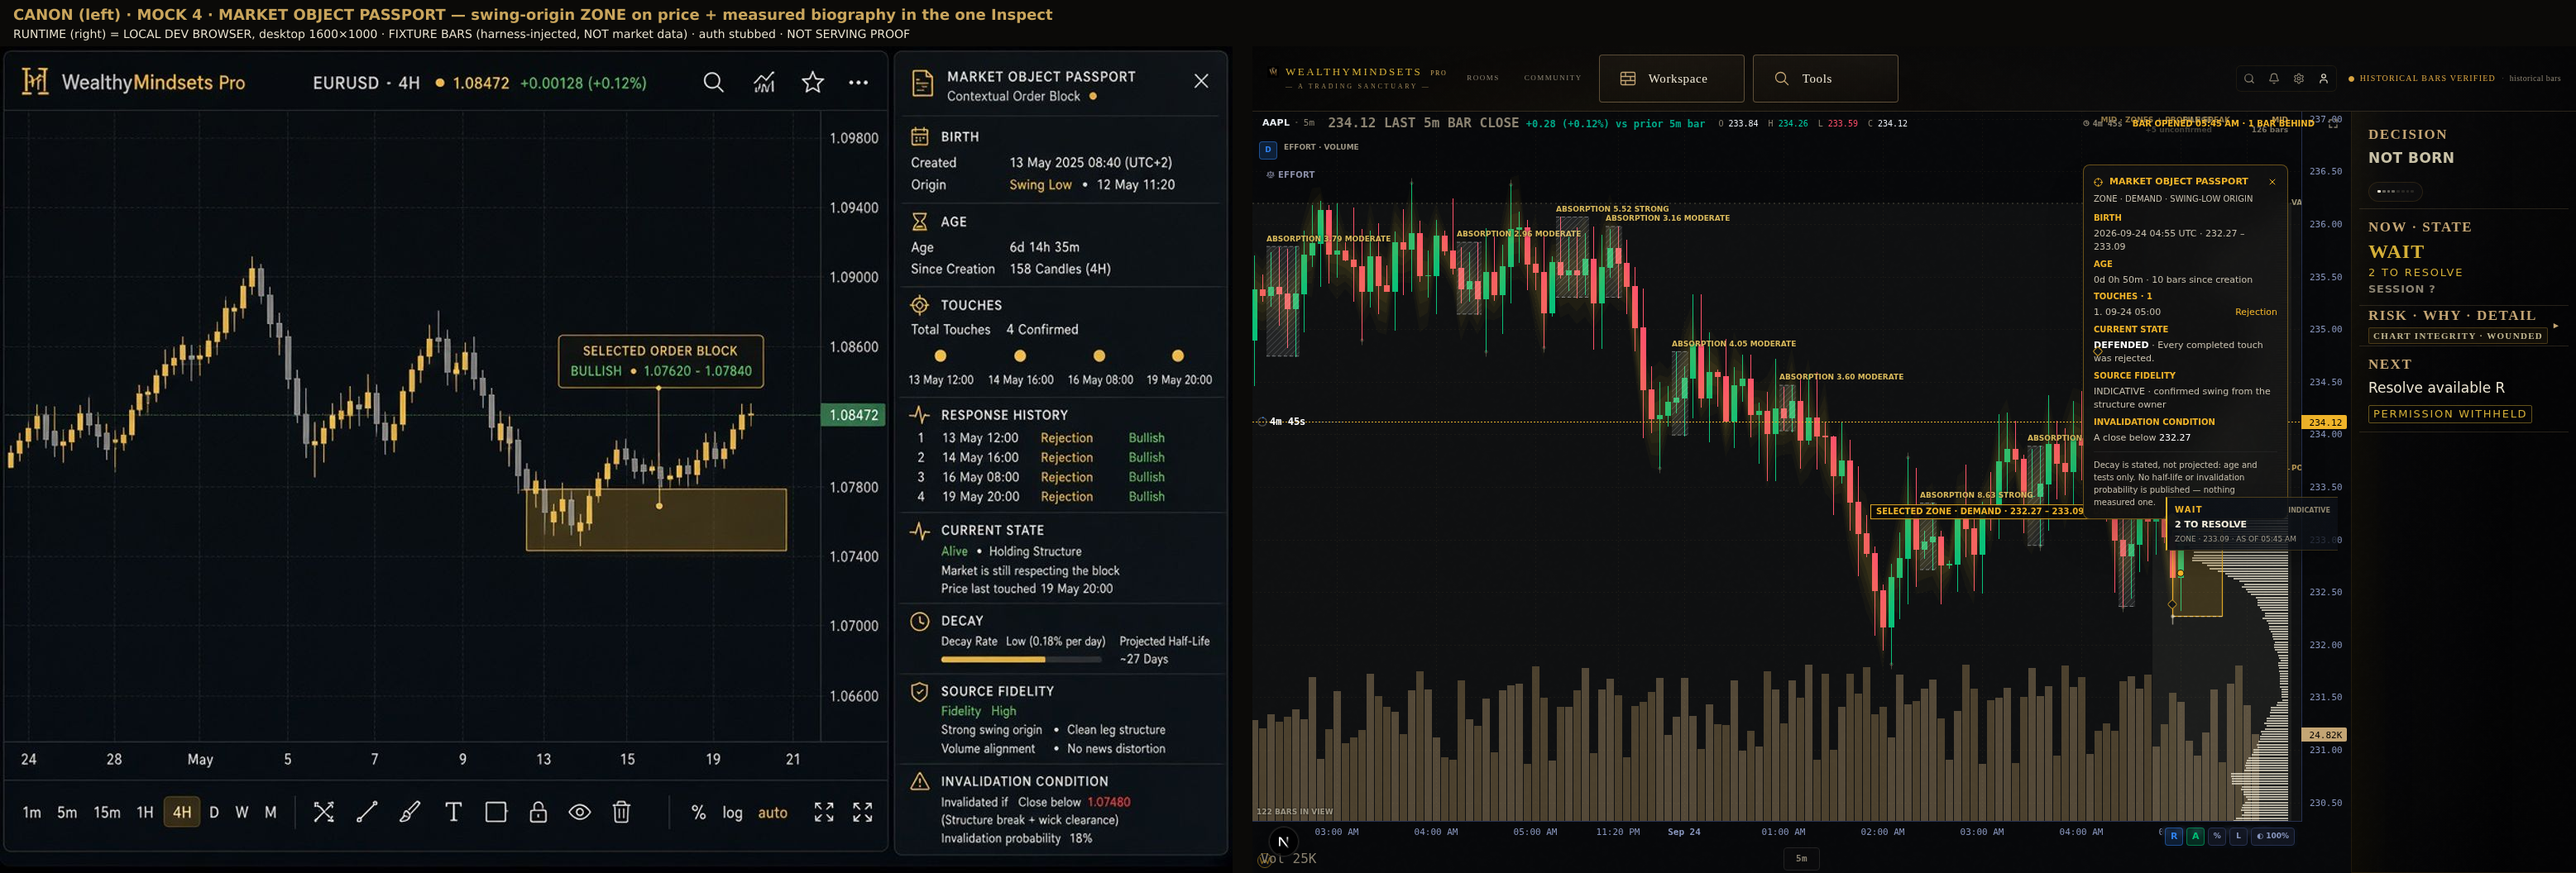
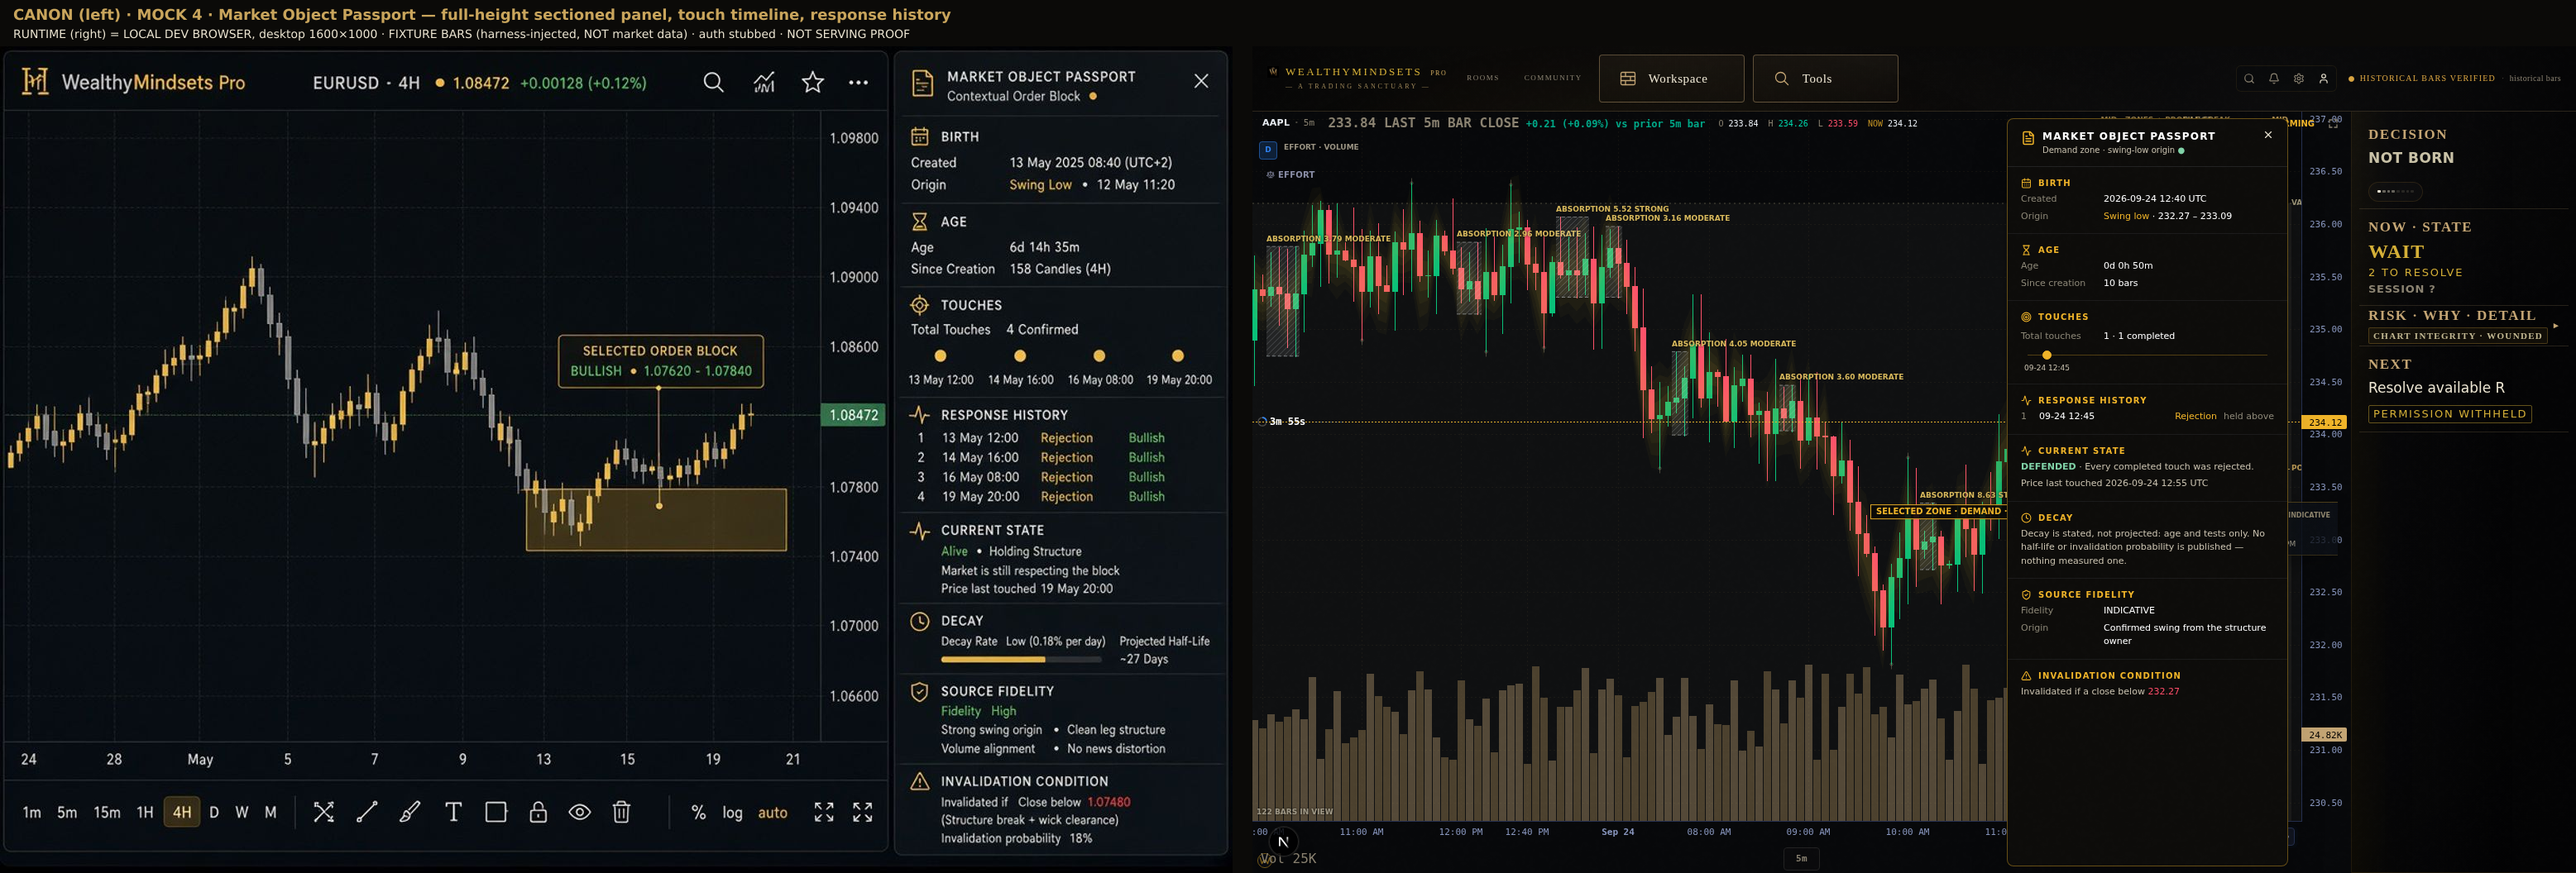
Market Object Passport as the plate's full-height panel: sections, touch timeline, response history (MOCK 4)
Opaque and above the chart's own chips. Same measured lifecycle facts; the
plate's decay rate, half-life and invalidation probability stay unbuilt.

Claude-Session: https://claude.ai/code/session_01Gntm2WzCaW5uQMS2aMojoZ

diff --git a/src/components/chart/ChartInspectTicket.tsx b/src/components/chart/ChartInspectTicket.tsx
@@ -51,7 +51,7 @@
 import React from "react";
 import type { SelectedBigTrade } from "@/lib/bigTradeLevels";
 import { describeAggressorMethod } from "@/lib/bubbleClaim";
-import { Crosshair, X } from "lucide-react";
+import { Activity, AlertTriangle, CalendarDays, Clock, Crosshair, FileText, Hourglass, ShieldCheck, Target, X } from "lucide-react";
 
 import type { InspectTicketVM, TicketRow } from "@/lib/marketData/viewModels/selectInspectTicket";
 import type { ProfileSliceResult } from "@/lib/marketData/viewModels/selectProfileSlice";
@@ -159,45 +159,102 @@ export function ChartInspectTicket({
       CONSUMED: "Still standing, but a touch swept through its far edge.",
       INVALID: "A bar closed beyond its far edge.",
     };
+    const stateColor = lc.state === "INVALID" ? "#FF4D6A" : lc.state === "CONSUMED" ? "#F0B429" : "#7FD1A6";
+    const heldWord = z.side === "DEMAND" ? "held above" : "held below";
+    const Head = ({ icon: Icon, children }: { icon: typeof Crosshair; children: React.ReactNode }) => (
+      <div className="flex items-center gap-2 text-[10px] font-bold tracking-[0.12em] text-wm-gold">
+        <Icon size={13} aria-hidden /> {children}
+      </div>
+    );
+    const Row = ({ k, v }: { k: string; v: React.ReactNode }) => (
+      <div className="grid grid-cols-[92px_1fr] gap-2 text-[11px]"><span style={{ color: "#8B8676" }}>{k}</span><span className="text-white">{v}</span></div>
+    );
     return (
-      <section className="absolute top-16 right-[76px] z-20 w-[248px] max-h-[calc(100%-6rem)] overflow-y-auto rounded-lg border border-wm-gold/40 bg-wm-surface/95 p-3 shadow-2xl backdrop-blur-md"
+      <section className="absolute top-2 bottom-2 right-[76px] w-[340px] overflow-y-auto rounded-lg border border-wm-gold/40 shadow-2xl"
+        // Opaque and above the chart's own chips: the passport is the object
+        // being read, so nothing on the glass may show through or sit on it.
+        style={{ background: "#0d0c0a", zIndex: 80 }}
         data-testid="chart-inspect-ticket" data-inspect-zone={z.object.objectId}
         aria-label={`Market object passport. ${z.side} zone ${z.object.priceLow} to ${z.object.priceHigh}. ${lc.state}.`}>
-        <div className="flex items-center gap-2 text-wm-gold text-[11px] font-bold">
-          <Crosshair size={11} /> MARKET OBJECT PASSPORT
-          <button className="ml-auto" aria-label="Close the passport" onClick={() => onOpenChange(false)}><X size={12} /></button>
+        <div className="flex items-start gap-2 border-b border-wm-border px-4 py-3">
+          <FileText size={18} className="mt-0.5 text-wm-gold" aria-hidden />
+          <div className="min-w-0">
+            <div className="text-[12px] font-bold tracking-[0.1em] text-white">MARKET OBJECT PASSPORT</div>
+            <div className="text-[10px]" style={{ color: "#C8C0AE" }}>
+              {z.side === "DEMAND" ? "Demand" : "Supply"} zone · {z.origin.toLowerCase()} <span style={{ color: stateColor }}>●</span>
+            </div>
+          </div>
+          <button className="ml-auto" aria-label="Close the passport" onClick={() => onOpenChange(false)}><X size={14} /></button>
         </div>
-        <div className="mt-1 text-[10px]" style={{ color: "#C8C0AE" }}>ZONE · {z.side} · {z.origin}</div>
-        <dl className="mt-2 text-[11px] break-words space-y-1" style={{ color: "#C8C0AE" }}>
-          <dt className="text-wm-gold text-[10px] font-bold">BIRTH</dt>
-          <dd>{t(z.birthTime)} · {z.object.priceLow.toFixed(2)} – {z.object.priceHigh.toFixed(2)}</dd>
-          <dt className="text-wm-gold text-[10px] font-bold">AGE</dt>
-          <dd>{age} · {lc.barsSinceBirth} bars since creation</dd>
-          <dt className="text-wm-gold text-[10px] font-bold">TOUCHES · {lc.touches.length}</dt>
-          <dd>
-            {lc.touches.length === 0 ? "None since birth." : (
-              <ol className="space-y-0.5">
+        <div className="divide-y divide-wm-border/70">
+          <div className="space-y-1 px-4 py-3">
+            <Head icon={CalendarDays}>BIRTH</Head>
+            <Row k="Created" v={t(z.birthTime)} />
+            <Row k="Origin" v={<><span className="text-wm-gold">{z.side === "DEMAND" ? "Swing low" : "Swing high"}</span> · {z.object.priceLow.toFixed(2)} – {z.object.priceHigh.toFixed(2)}</>} />
+          </div>
+          <div className="space-y-1 px-4 py-3">
+            <Head icon={Hourglass}>AGE</Head>
+            <Row k="Age" v={age} />
+            <Row k="Since creation" v={`${lc.barsSinceBirth} bars`} />
+          </div>
+          <div className="space-y-2 px-4 py-3">
+            <Head icon={Target}>TOUCHES</Head>
+            <Row k="Total touches" v={`${lc.touches.length}${lc.touches.length ? ` · ${lc.touches.filter(x => x.response !== "OPEN").length} completed` : ""}`} />
+            {lc.touches.length === 0 ? (
+              <p className="text-[11px]" style={{ color: "#C8C0AE" }}>None since birth.</p>
+            ) : (
+              <div className="relative mt-1 flex justify-between px-1" data-testid="passport-touch-timeline">
+                <div className="absolute left-2 right-2 top-[5px] h-px bg-wm-gold/30" aria-hidden />
+                {lc.touches.map(tc => (
+                  <div key={tc.start} className="relative flex flex-col items-center gap-1">
+                    <span className="h-[11px] w-[11px] rounded-full" style={{ background: tc.response === "INVALIDATED" ? "#FF4D6A" : tc.response === "OPEN" ? "transparent" : "#F0B429", border: "1px solid #F0B429" }} />
+                    <span className="text-[9px]" style={{ color: "#C8C0AE" }}>{t(tc.start).slice(5, 16)}</span>
+                  </div>
+                ))}
+              </div>
+            )}
+          </div>
+          {lc.touches.length > 0 && (
+            <div className="space-y-1 px-4 py-3">
+              <Head icon={Activity}>RESPONSE HISTORY</Head>
+              <ol className="space-y-0.5" data-testid="passport-response-history">
                 {lc.touches.map((tc, i) => (
-                  <li key={tc.start} className="flex justify-between gap-2">
-                    <span>{i + 1}. {t(tc.start).slice(5, 16)}</span>
+                  <li key={tc.start} className="grid grid-cols-[14px_1fr_auto_auto] gap-2 text-[11px]">
+                    <span style={{ color: "#8B8676" }}>{i + 1}</span>
+                    <span className="text-white">{t(tc.start).slice(5, 16)}</span>
                     <span style={{ color: tc.response === "REJECTED" ? "#F0B429" : tc.response === "INVALIDATED" ? "#FF4D6A" : "#EDE6D3" }}>
                       {tc.response === "REJECTED" ? "Rejection" : tc.response === "INVALIDATED" ? "Close beyond" : "Open"}{tc.swept ? " · swept" : ""}
                     </span>
+                    <span style={{ color: "#8B8676" }}>{tc.response === "REJECTED" ? heldWord : "—"}</span>
                   </li>
                 ))}
               </ol>
-            )}
-          </dd>
-          <dt className="text-wm-gold text-[10px] font-bold">CURRENT STATE</dt>
-          <dd><span className="text-white font-bold">{lc.state}</span> · {stateNote[lc.state]}</dd>
-          <dt className="text-wm-gold text-[10px] font-bold">SOURCE FIDELITY</dt>
-          <dd>{z.object.fidelityAtBirth} · confirmed swing from the structure owner</dd>
-          <dt className="text-wm-gold text-[10px] font-bold">INVALIDATION CONDITION</dt>
-          <dd>A close {z.side === "DEMAND" ? "below" : "above"} <span className="text-white">{lc.invalidationPrice.toFixed(2)}</span>{lc.invalidatedAt != null ? ` — happened ${t(lc.invalidatedAt)}` : ""}</dd>
-        </dl>
-        <p className="mt-2 border-t border-wm-border pt-2 text-[10px]" style={{ color: "#C8C0AE" }}>
-          Decay is stated, not projected: age and tests only. No half-life or invalidation probability is published — nothing measured one.
-        </p>
+            </div>
+          )}
+          <div className="space-y-1 px-4 py-3">
+            <Head icon={Activity}>CURRENT STATE</Head>
+            <div className="text-[11px]"><span className="font-bold" style={{ color: stateColor }}>{lc.state}</span> <span style={{ color: "#C8C0AE" }}>· {stateNote[lc.state]}</span></div>
+            {lc.touches.length > 0 && <div className="text-[11px]" style={{ color: "#C8C0AE" }}>Price last touched {t(lc.touches[lc.touches.length - 1].end)}</div>}
+          </div>
+          <div className="space-y-1 px-4 py-3">
+            <Head icon={Clock}>DECAY</Head>
+            <p className="text-[11px]" style={{ color: "#C8C0AE" }}>
+              Decay is stated, not projected: age and tests only. No half-life or invalidation probability is published — nothing measured one.
+            </p>
+          </div>
+          <div className="space-y-1 px-4 py-3">
+            <Head icon={ShieldCheck}>SOURCE FIDELITY</Head>
+            <Row k="Fidelity" v={z.object.fidelityAtBirth} />
+            <Row k="Origin" v="Confirmed swing from the structure owner" />
+          </div>
+          <div className="space-y-1 px-4 py-3">
+            <Head icon={AlertTriangle}>INVALIDATION CONDITION</Head>
+            <div className="text-[11px]" style={{ color: "#C8C0AE" }}>
+              Invalidated if a close {z.side === "DEMAND" ? "below" : "above"} <span style={{ color: "#FF4D6A" }}>{lc.invalidationPrice.toFixed(2)}</span>
+              {lc.invalidatedAt != null ? ` — happened ${t(lc.invalidatedAt)}` : ""}
+            </div>
+          </div>
+        </div>
       </section>
     );
   }
